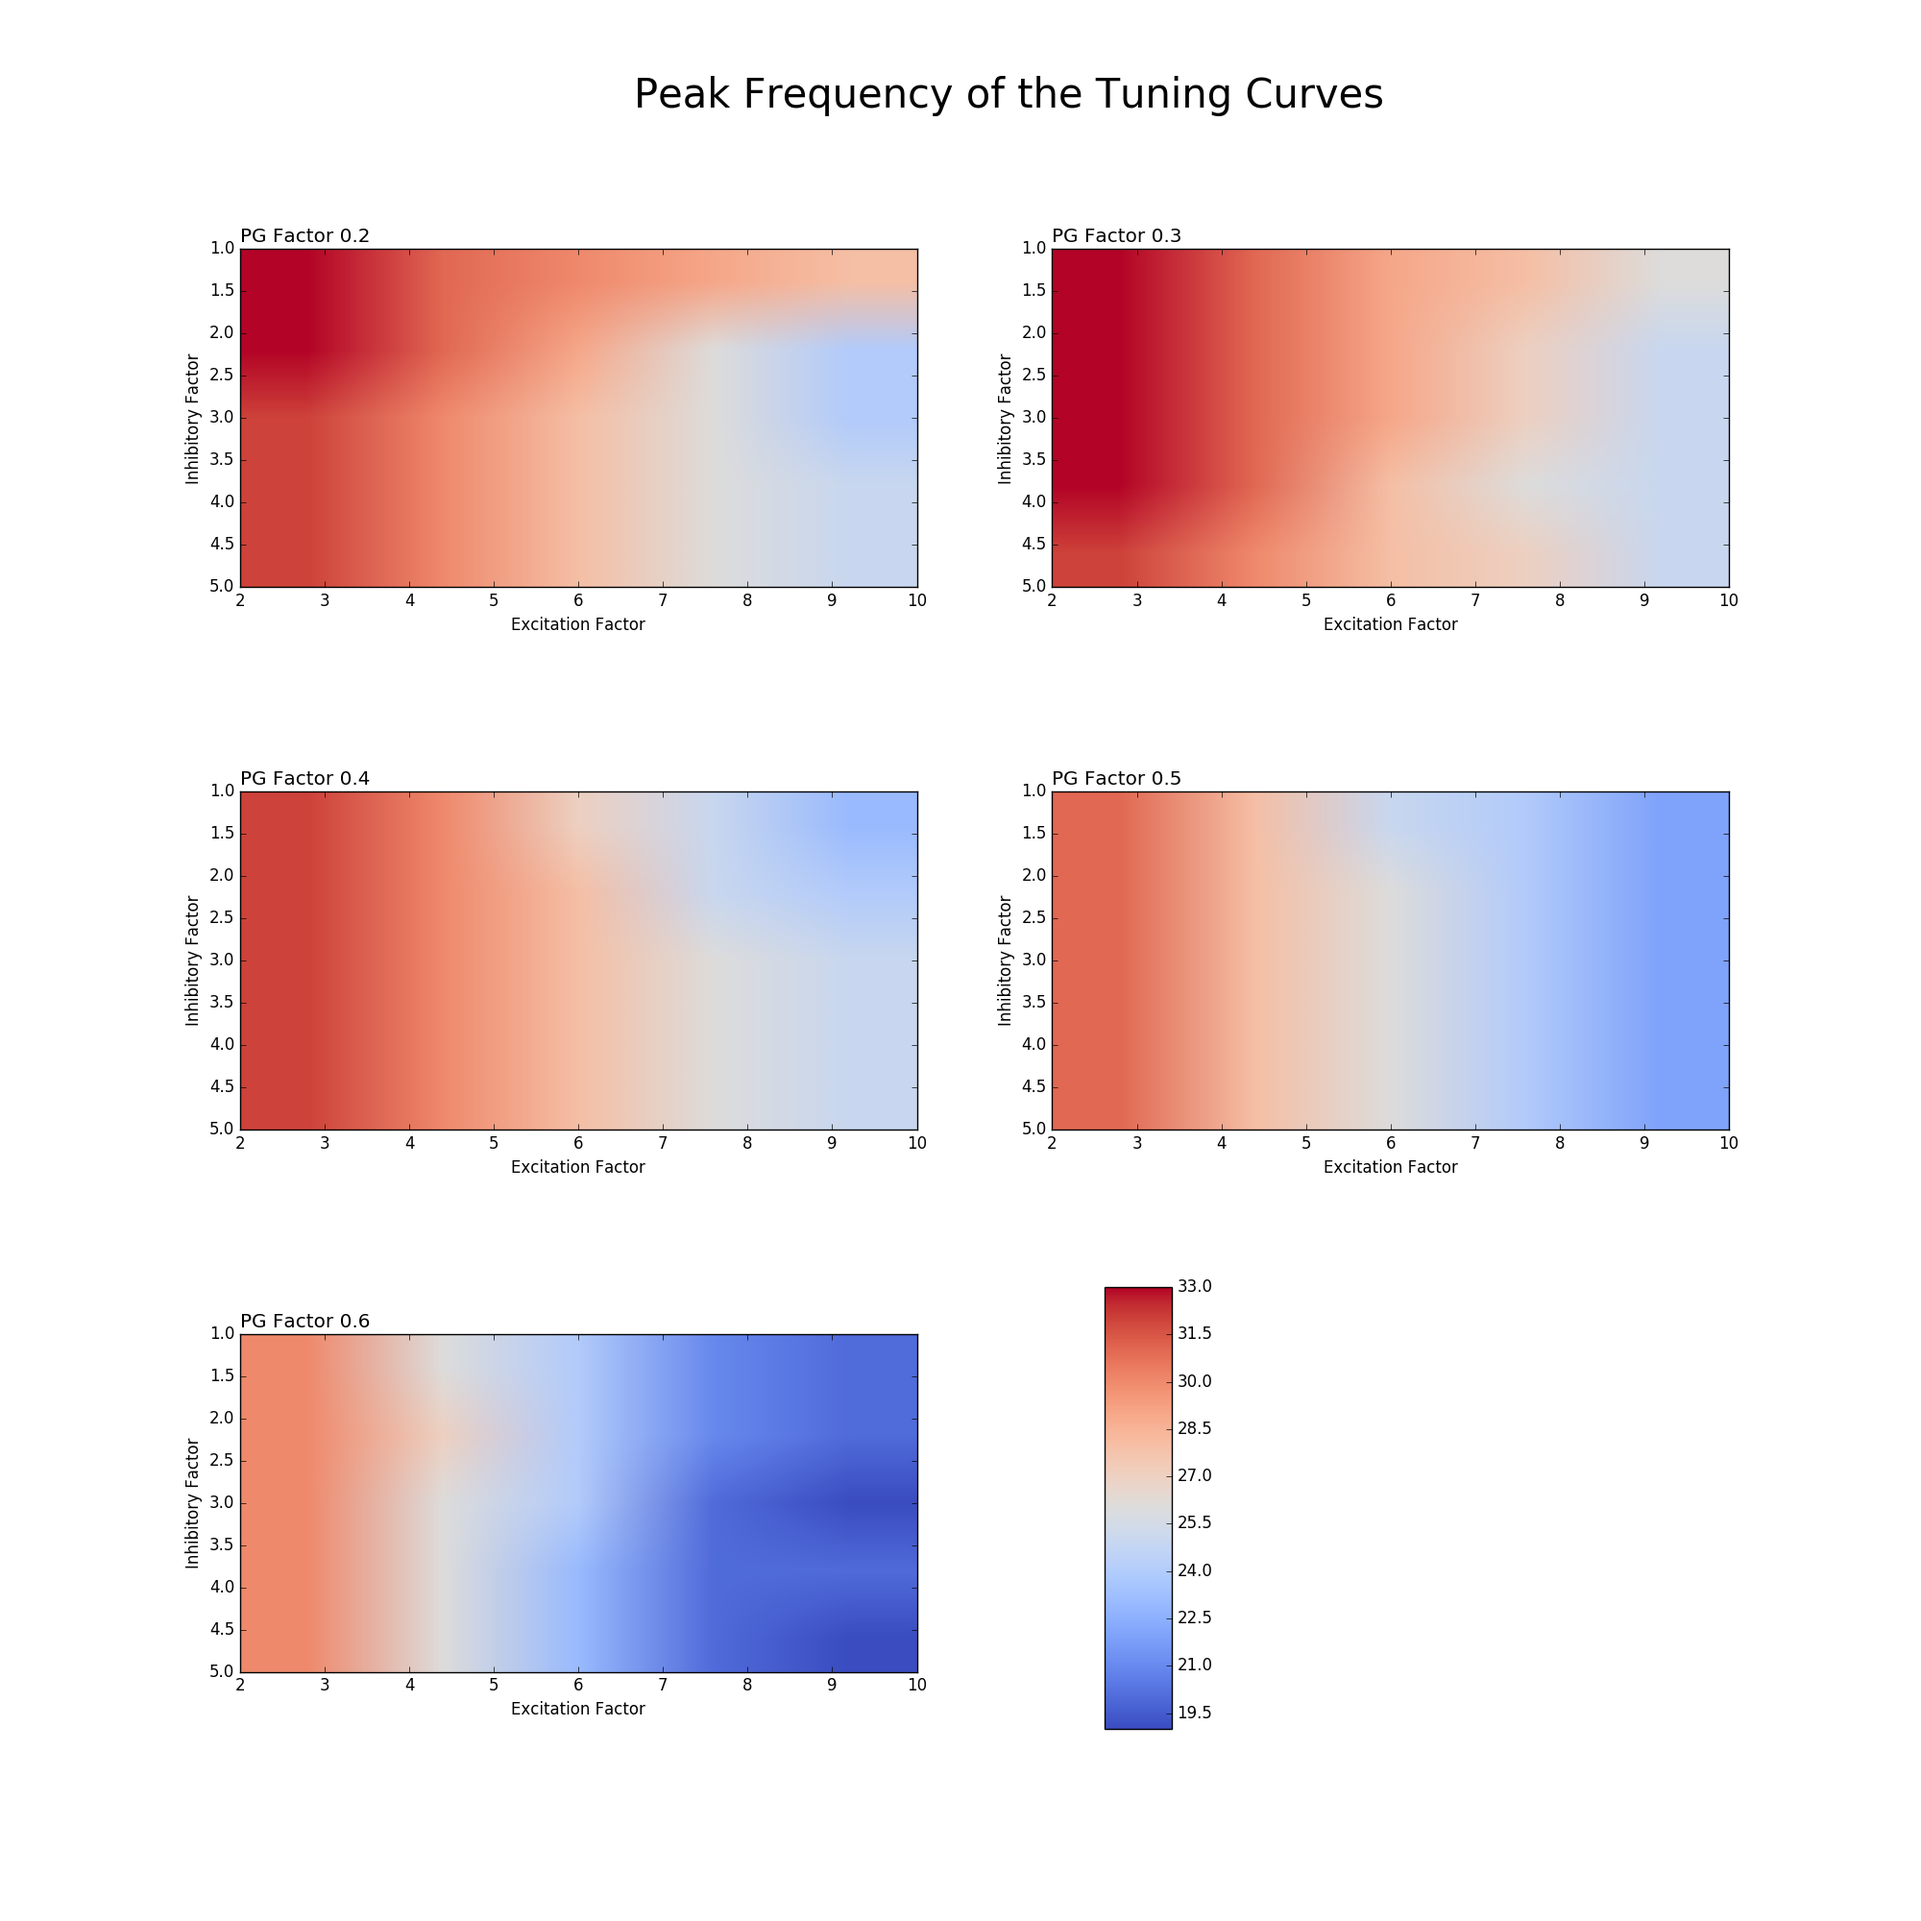
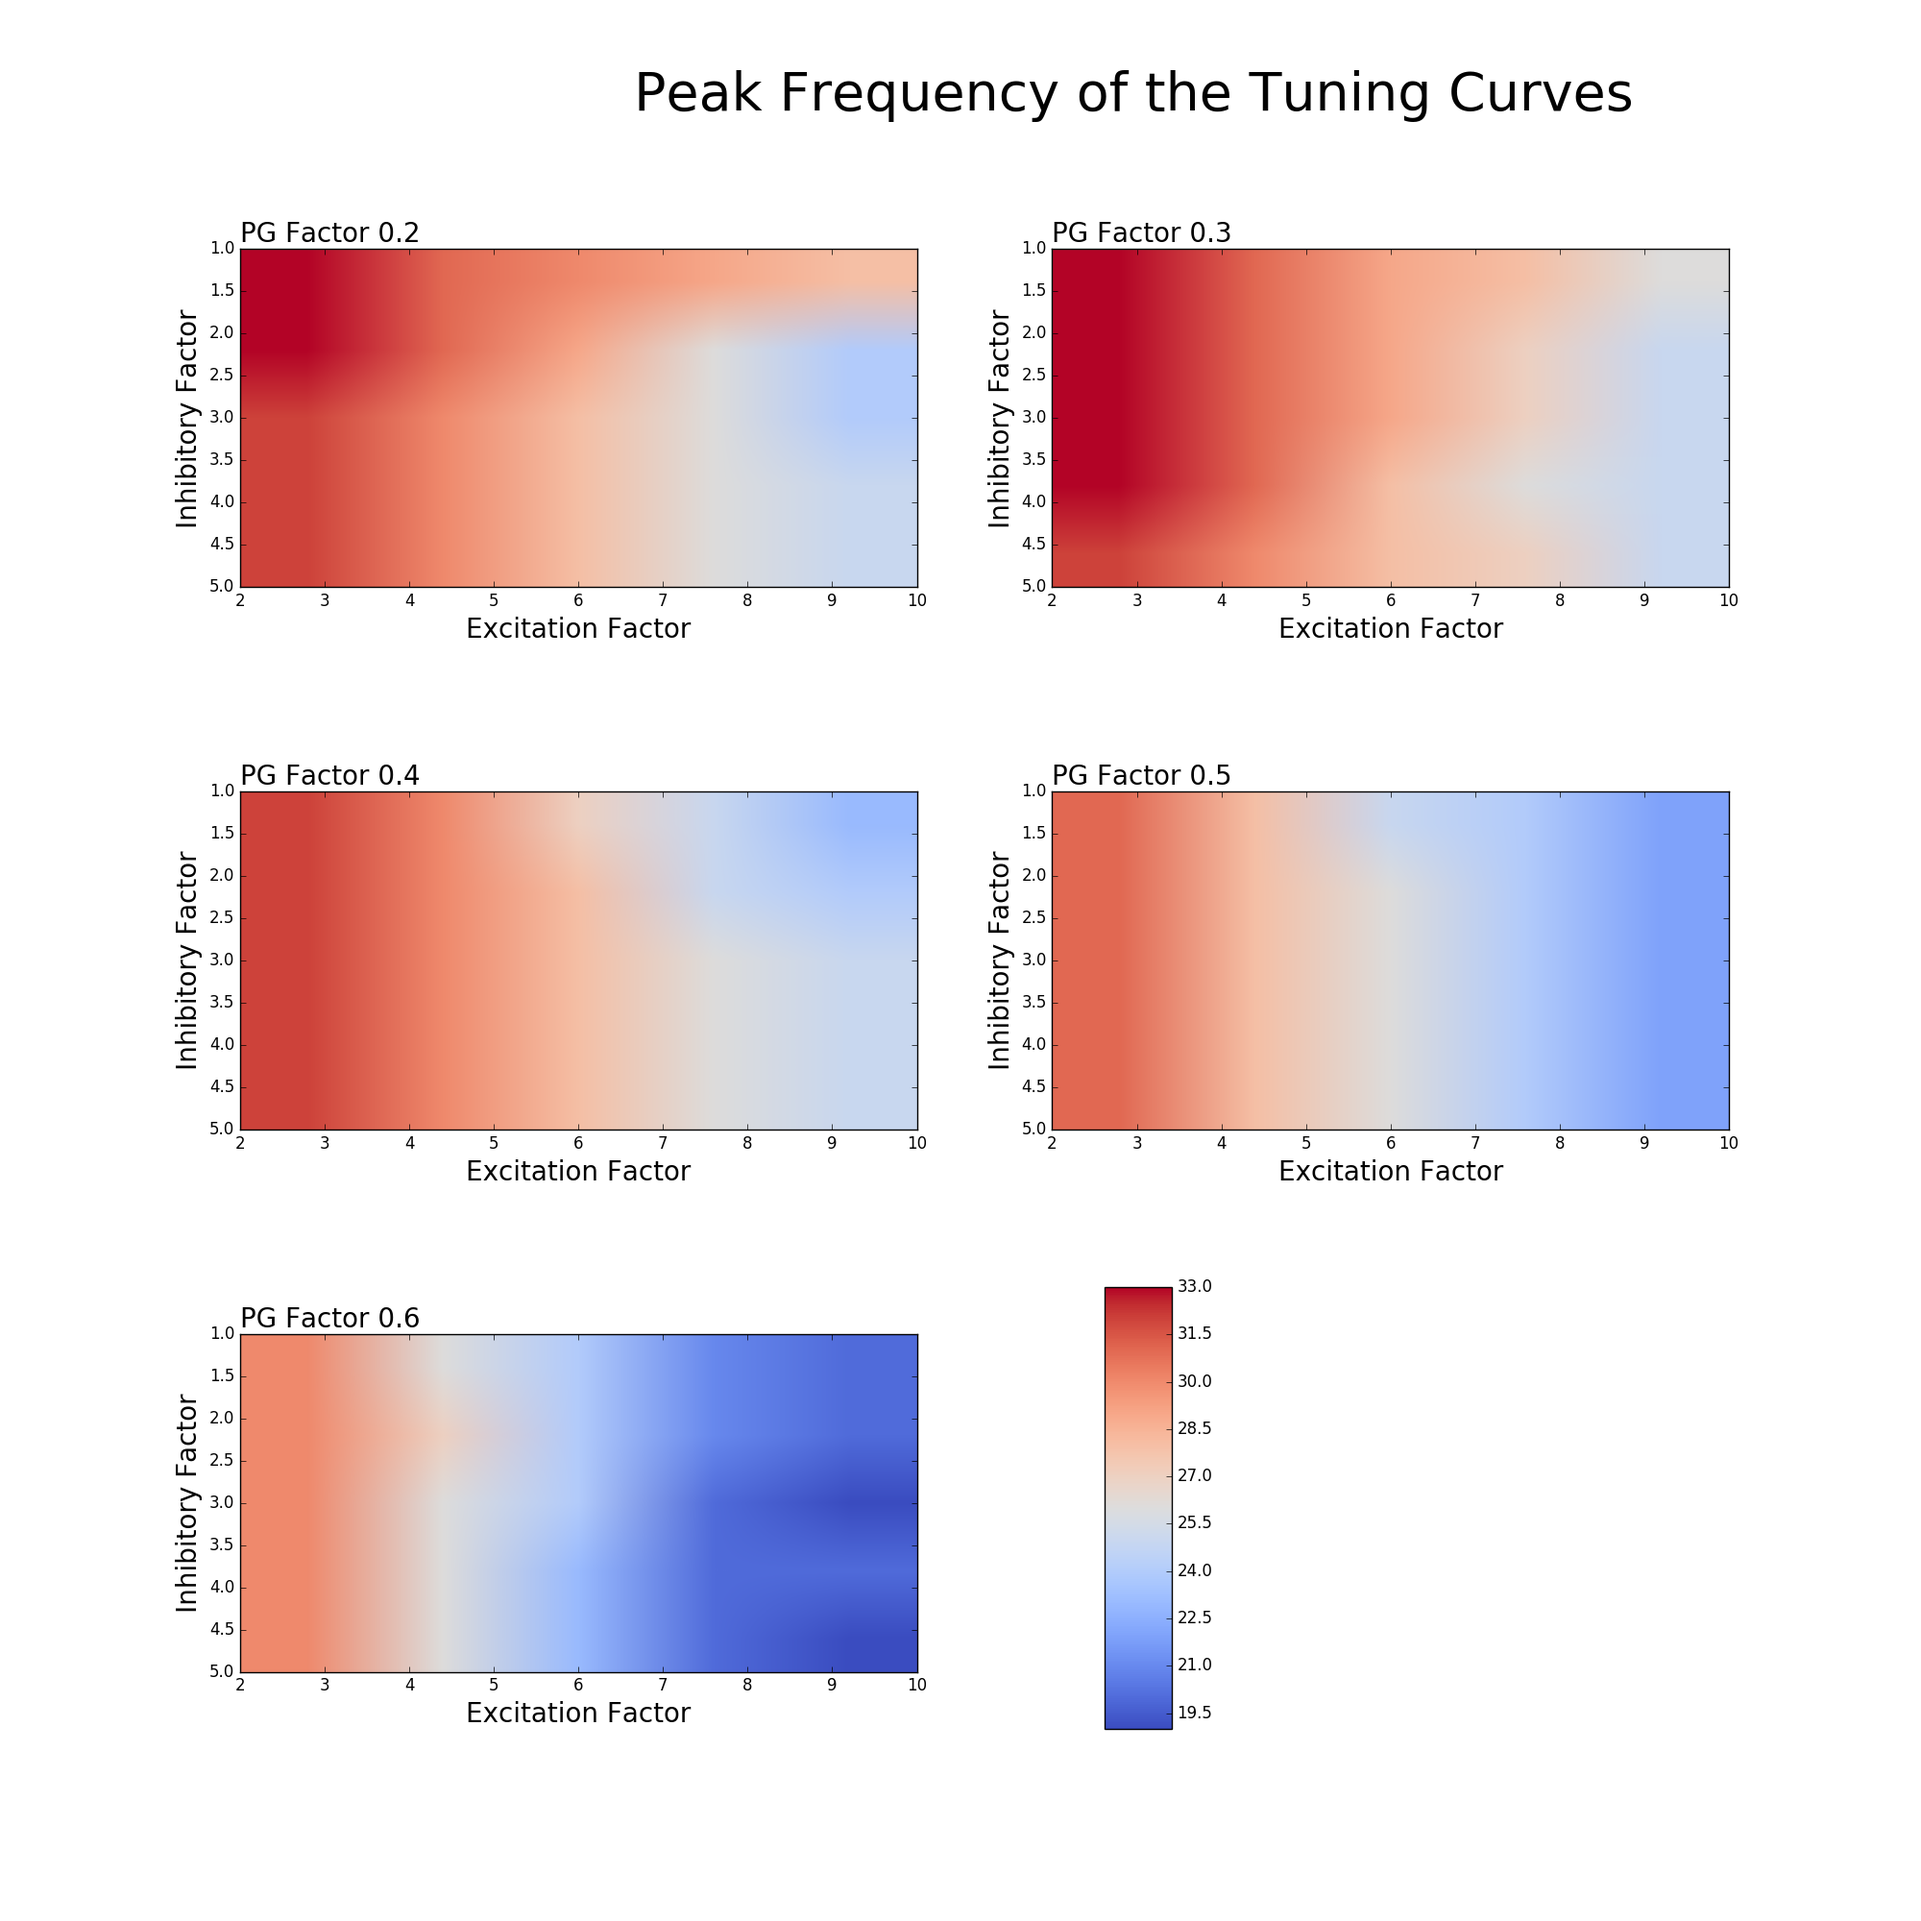
contour plot complete

diff --git a/Temporal-Filtering/Networks/Basic-MC-PGC-Motif/Class/Frequency-Tuned-MCs/tuneMC.py b/Temporal-Filtering/Networks/Basic-MC-PGC-Motif/Class/Frequency-Tuned-MCs/tuneMC.py
@@ -95,10 +95,10 @@ def plotPeaks(peaks, X, Y, minvalue, maxvalue):
 		l.append([i,j])
 		ax = fig.add_subplot(3, 2, i+1)
 		im = ax.imshow(peaks[i], extent=(X.min(), X.max(), Y.max(), Y.min()), vmax=maxvalue, vmin=minvalue, interpolation = 'bilinear', cmap = cm.coolwarm)
-		ax.set_xlabel('Excitation Factor', fontsize = 12)
-		ax.set_ylabel('Inhibitory Factor', fontsize = 12)
-		ax.set_title('PG Factor ' + str(j), loc = 'left')
-	fig.text(0.33, 0.95, 'Peak Frequency of the Tuning Curves', va = 'center', rotation = 'horizontal', fontsize = 30)
+		ax.set_xlabel('Excitation Factor', fontsize = 20)
+		ax.set_ylabel('Inhibitory Factor', fontsize = 20)
+		ax.set_title('PG Factor ' + str(j), loc = 'left', fontsize = 20)
+	fig.text(0.33, 0.95, 'Peak Frequency of the Tuning Curves', va = 'center', rotation = 'horizontal', fontsize = 40)
 
 	# Colour bar
 	cax = plt.axes([0.575, 0.1, 0.035, 0.23])
